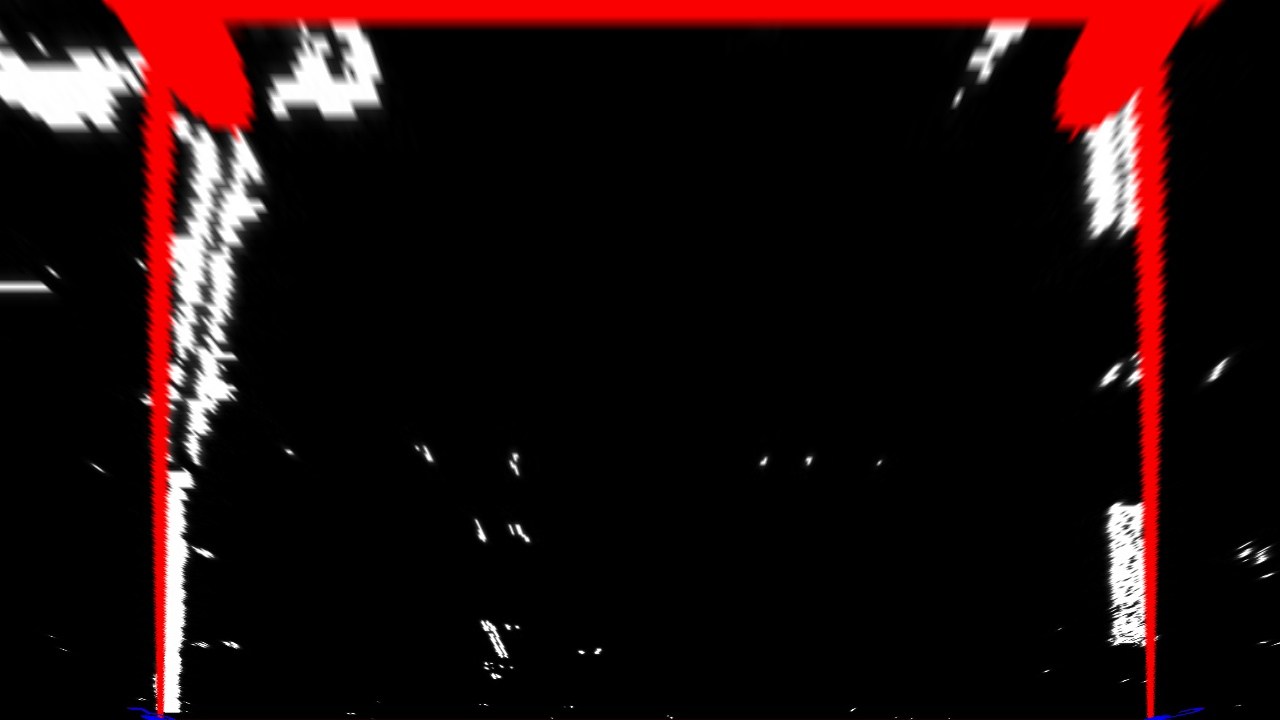
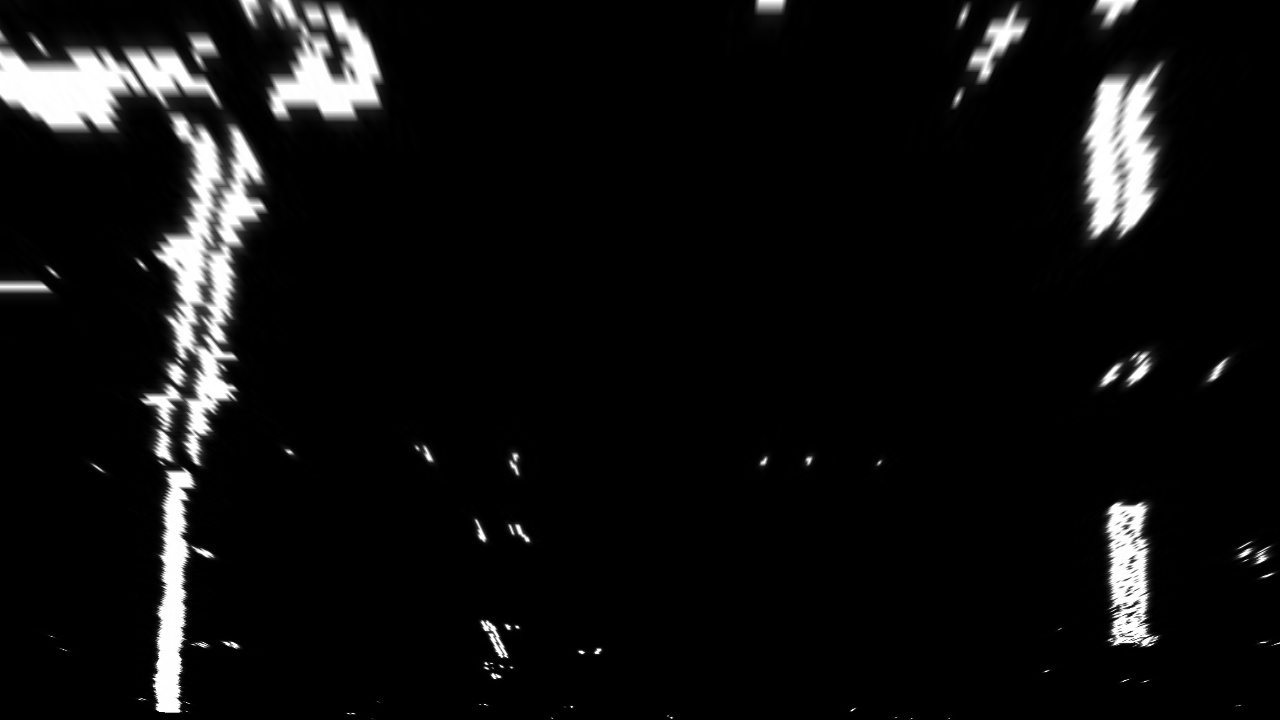
update writeup

Changed region(s): [[0.0625, 0.0, 0.9688, 1.0]]

diff --git a/alf/pipeline/transformer.py b/alf/pipeline/transformer.py
@@ -12,37 +12,37 @@ class Transformer(object):
 
         src = Roi.src_corners(width, height)
 
-        print(src)
+        # print(src)
 
         dst = Roi.dst_corners(width, height)
 
-        print(dst)
-        for idx, corner in enumerate(src):
-            x, y = corner
-            character = chr(48 + idx)
-            cv2.circle(binary, (x, y), 10, color=(0, 0, 250), thickness=-1)
-            cv2.putText(binary, character, (x, y), cv2.FONT_HERSHEY_SIMPLEX,
-                        1, (0, 0, 255), 2, cv2.LINE_AA)
+        # print(dst)
+        # for idx, corner in enumerate(src):
+        #     x, y = corner
+        #     character = chr(48 + idx)
+        #     cv2.circle(binary, (x, y), 10, color=(0, 0, 250), thickness=-1)
+        #     cv2.putText(binary, character, (x, y), cv2.FONT_HERSHEY_SIMPLEX,
+        #                 1, (0, 0, 255), 2, cv2.LINE_AA)
 
-        cv2.line(binary, tuple(src[0]), tuple(src[1]), (0, 0, 250), 2)
-        cv2.line(binary, tuple(src[1]), tuple(src[2]), (0, 0, 250), 2)
-        cv2.line(binary, tuple(src[2]), tuple(src[3]), (0, 0, 250), 2)
-        cv2.line(binary, tuple(src[3]), tuple(src[0]), (0, 0, 250), 2)
+        # cv2.line(binary, tuple(src[0]), tuple(src[1]), (0, 0, 250), 2)
+        # cv2.line(binary, tuple(src[1]), tuple(src[2]), (0, 0, 250), 2)
+        # cv2.line(binary, tuple(src[2]), tuple(src[3]), (0, 0, 250), 2)
+        # cv2.line(binary, tuple(src[3]), tuple(src[0]), (0, 0, 250), 2)
 
-        for idx, corner in enumerate(dst):
-            x, y = corner
-            character = chr(48 + idx)
-            cv2.circle(binary, (x, y), 10,
-                       color=(250, 0, 0), thickness=-1)
-            cv2.putText(binary, character, (x, y), cv2.FONT_HERSHEY_SIMPLEX,
-                        1, (250, 0, 0), 2, cv2.LINE_AA)
+        # for idx, corner in enumerate(dst):
+        #     x, y = corner
+        #     character = chr(48 + idx)
+        #     cv2.circle(binary, (x, y), 10,
+        #                color=(250, 0, 0), thickness=-1)
+        #     cv2.putText(binary, character, (x, y), cv2.FONT_HERSHEY_SIMPLEX,
+        #                 1, (250, 0, 0), 2, cv2.LINE_AA)
 
-        cv2.imwrite(
-            './assets/output_images/test5_undistorted_marked.jpg', binary)
+        # cv2.imwrite(
+        #     './assets/output_images/test5_undistorted_marked.jpg', binary)
 
         # return binary
         M = cv2.getPerspectiveTransform(src, dst)
-        Minv = cv2.getPerspectiveTransform(dst, src)
+        # Minv = cv2.getPerspectiveTransform(dst, src)
 
         # return binary
         return cv2.warpPerspective(binary, M, (width, height), flags=cv2.INTER_LINEAR)

diff --git a/WRITEUP.md b/WRITEUP.md
@@ -41,9 +41,9 @@ I start by preparing "object points", which will be the (x, y, z) coordinates of
 I then used the output `objpoints` and `imgpoints` to compute the camera calibration and distortion coefficients using the `cv2.calibrateCamera()` function.  I applied this distortion correction to the test image using the `cv2.undistort()` function and obtained this result: 
 [/TBD]
 
-Input            |  Output
-:-------------------------:|:-------------------------:
-![Example of distorted calibration image](./assets/output_images/distorted_example.jpg) | ![Example of undistorted calibration image](./assets/output_images/undistorted_example.jpg)
+| Input            |  Output |
+|:-------------------------:|:-------------------------:|
+|![Example of distorted calibration image](./assets/output_images/distorted_example.jpg) | ![Example of undistorted calibration image](./assets/output_images/undistorted_example.jpg) |
 
 ## 2. Pipeline (single images)
 
@@ -55,17 +55,17 @@ Once we have a calibrated Undistorter object as described in section 1.1. we can
 ...to ensure that the geometrical shape of objects is represents consistently , no matter where they appear in an image.
 [/WIP]
 
-Input            |  Output
-:-------------------------:|:-------------------------:
-![Example of distorted test image](./assets/test_images/test5.jpg) | ![Example of undistorted test image](./assets/output_images/test5_undistorted_example.jpg)
+|Input            |  Output |
+|:-------------------------:|:-------------------------:|
+| ![Example of distorted test image](./assets/test_images/test5.jpg) | ![Example of undistorted test image](./assets/output_images/test5_undistorted_example.jpg) |
 
 ### 2.2 Describe how (and identify where in your code) you used color transforms, gradients or other methods to create a thresholded binary image.  Provide an example of a binary image result
 
 With a `Thresholder` object created from its class found in `./src/alf/pipeline/thresholder.py` both color and gradient thresholds are applied to an image in the `threshols()` function. This function combines the threshold results as a binary image.
 
-Input            |  Output
+| Input            |  Output |
 :-------------------------:|:-------------------------:
-![Example of undistorted test image](./assets/output_images/test5_undistorted_example.jpg) | ![Example of binary image](./assets/output_images/test5_undistorted_thresholded.jpg)
+![Example of undistorted test image](./assets/output_images/test5_undistorted_example.jpg) | ![Example of binary image](./assets/output_images/test5_undistorted_thresholded.jpg) |
 
 ## 2.3 Describe how (and identify where in your code) you performed a perspective transform and provide an example of a transformed image
 
@@ -76,7 +76,7 @@ As example input to this step of the pipeline we use the output image of the pre
 The source and destination points are created in the `Roi` class found in `alf/common/roi.py`. 
 For the source points I chose values that created a snug fit on the outsides of the lane lines when connecting them via lines. The desination points are based on the source points whereby the upper point position are changed so that the resulting polygon becomes a square. This resulted in the following source and destination points:
 
-| Source        | Destination   | 
+| Source (x, y)       | Destination (x, y)  | 
 |:-------------:|:-------------:| 
 | 560, 468      | 160, 0        | 
 | 740, 468      | 1150, 0       |
@@ -85,9 +85,15 @@ For the source points I chose values that created a snug fit on the outsides of 
 
 I verified that my perspective transform was working as expected by drawing the `src` and `dst` points onto a test image and its warped counterpart to verify that the lines appear parallel in the warped image.
 
-Input                      |  Marked (example)         | Output
-:-------------------------:|:-------------------------:|:-------------------------:
-| ![Example of binary image](./assets/output_images/test5_undistorted_thresholded.jpg) | ![Example of binary image](./assets/output_images/test5_undistorted_marked.jpg) | ![Example of binary image](./assets/output_images/test5_undistorted_warped.jpg) |
+| Input                      |  Marked (example)         | Output |
+|:-------------------------:|:-------------------------:|:-------------------------:|
+| ![Example of binary image](./assets/output_images/test5_undistorted_thresholded.jpg) | ![Example of binary image](./assets/output_images/test5_undistorted_marked.jpg) | ![Example of binary image](./assets/output_images/test5_undistorted_warped_marked.jpg) |
+
+The images contain the points and lines for illustrative purposed, they will not be drawn in the actual pipeline. It seems that the transform is succesfull as the bounding box is a rectangle and the lane lines can be considered to be perpendicular to each other and both slightly directed to the right as in the original picture.
+
+| Perspective Transform result|
+|:-------------------------:|
+| ![Example of binary image](./assets/output_images/test5_undistorted_warped_marked.jpg) |
 
 ### 2.4. Describe how (and identify where in your code) you identified lane-line pixels and fit their positions with a polynomial?
 
